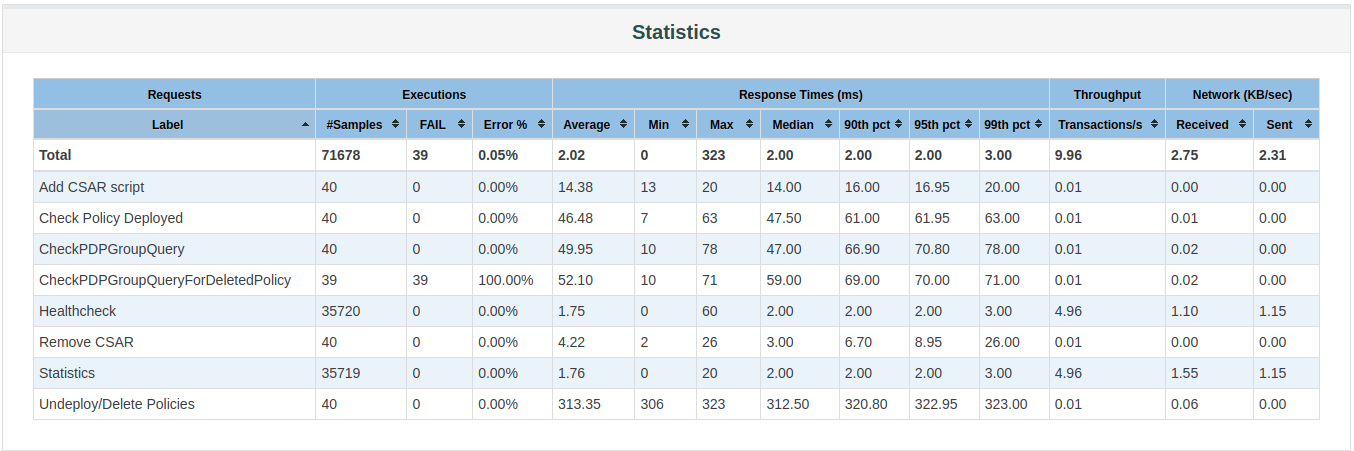
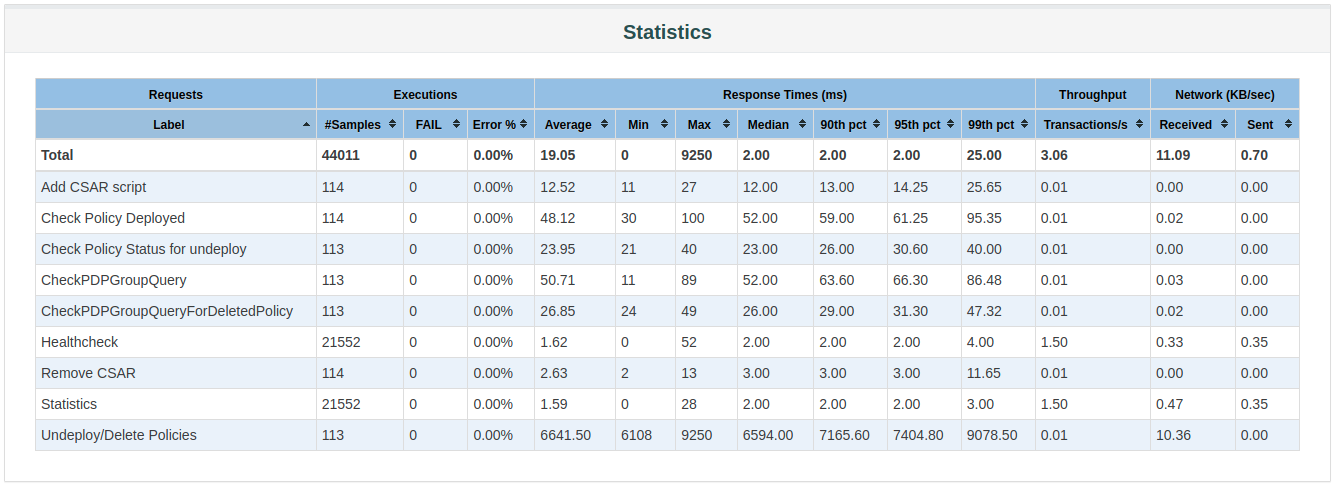
Distribution S3P testing results for Istanbul.
Issue-ID: POLICY-3654

Changed region(s): [[0.0, 0.1552, 0.9828, 0.9313], [0.0, 0.9933, 1.0, 1.0], [0.4607, 0.031, 0.5528, 0.0931]]

diff --git a/docs/development/devtools/distribution-s3p.rst b/docs/development/devtools/distribution-s3p.rst
@@ -14,22 +14,16 @@ VM Details
 ----------
 
 The stability and performance tests are performed on VM's running in the OpenStack cloud
-environment in the ONAP integration lab. There are two separate VMs, one for running backend policy
-services which policy distribution needs, and the other for the policy distribution service itself
-and Jmeter.
+environment in the ONAP integration lab.
 
-**OpenStack environment details**
+**Policy VM details**
 
-- Version: Windriver Titanium
-
-**Policy Backend VM details (VM1)**
-
-- OS: Ubuntu 18.04.5 LTS
-- CPU: 8 core, Intel Xeon E3-12xx v2 (Ivy Bridge), 2693.668 MHz, 16384 kB cache
-- RAM: 32 GB
-- HardDisk: 200 GB
-- Docker version 19.03.8, build afacb8b7f0
-- Java: openjdk 11.0.8 2020-07-14
+- OS: Ubuntu 18.04 LTS (GNU/Linux 4.15.0-151-generic x86_64)
+- CPU: 4 core
+- RAM: 15 GB
+- HardDisk: 39 GB
+- Docker version 20.10.7, build 20.10.7-0ubuntu1~18.04.2
+- Java: openjdk 11.0.11 2021-04-20
 
 
 Common Setup
@@ -52,9 +46,9 @@ Ensure that the Java version that is executing is OpenJDK version 11
 .. code-block:: bash
 
     $ java --version
-    openjdk 11.0.8 2020-07-14
-    OpenJDK Runtime Environment (build 11.0.8+10-post-Ubuntu-0ubuntu118.04.1)
-    OpenJDK 64-Bit Server VM (build 11.0.8+10-post-Ubuntu-0ubuntu118.04.1, mixed mode, sharing)
+    openjdk 11.0.11 2021-04-20
+    OpenJDK Runtime Environment (build 11.0.11+9-Ubuntu-0ubuntu2.18.04)
+    OpenJDK 64-Bit Server VM (build 11.0.11+9-Ubuntu-0ubuntu2.18.04, mixed mode)
 
 Install Docker and Docker Compose
 
@@ -223,14 +217,14 @@ This will load up the visualVM GUI
 
 Connect to Distribution JMX Port.
 
-    1. Right click on "Local" in the left panel of the screen and select "Add JMX Connection"
+    1. On the visualvm toolbar, click on "Add JMX Connection"
     2. Enter the Distribution container IP and Port 9090. This is the JMX port exposed by the
        distribution container
-    3. Double click on the newly added nodes under "Local" to start monitoring CPU, Memory & GC.
+    3. Double click on the newly added nodes under "Remotes" to start monitoring CPU, Memory & GC.
 
 Example Screenshot of visualVM
 
-.. image:: distribution-s3p-results/distribution-s3p-vvm-sample.png
+.. image:: distribution-s3p-results/distribution-visualvm-snapshot.png
 
 
 Stability Test of Policy Distribution
@@ -261,11 +255,10 @@ The 72h stability test will run the following steps sequentially in a single thr
 - **Add CSAR** - Adds CSAR to the directory that distribution is watching
 - **Get Healthcheck** - Ensures Healthcheck is returning 200 OK
 - **Get Statistics** - Ensures Statistics is returning 200 OK
-- **CheckPDPGroupQuery** - Checks that PDPGroupQuery contains the deployed policy
-- **CheckPolicyDeployed** - Checks that the policy is deployed
-- **Undeploy Policy** - Undeploys the policy
-- **Delete Policy** - Deletes the Policy for the next loop
-- **Check PDP Group for Deletion** - Ensures the policy has been removed and does not exist
+- **Assert PDP Group Query** - Checks that PDPGroupQuery contains the deployed policy
+- **Assert PoliciesDeployed** - Checks that the policy is deployed
+- **Undeploy/Delete Policy** - Undeploys and deletes the Policy for the next loop
+- **Assert PDP Group Query for Deleted Policy** - Ensures the policy has been removed and does not exist
 
 The following steps can be used to configure the parameters of the test plan.
 
@@ -285,7 +278,7 @@ The following steps can be used to configure the parameters of the test plan.
 
 Screenshot of Distribution stability test plan
 
-.. image:: distribution-s3p-results/distribution-s3p-testplan.png
+.. image:: distribution-s3p-results/distribution-jmeter-testcases.png
 
 
 Running the Test Plan
@@ -294,6 +287,11 @@ Running the Test Plan
 Check if the /tmp/policydistribution/distributionmount exists as it was created during the start.sh
 script execution. If not, run the following commands to create folder and change folder permissions
 to allow the testplan to insert the CSAR into the /tmp/policydistribution/distributionmount folder.
+
+.. note::
+    Make sure that only csar file is being loaded in the watched folder and log generation is in a
+    logs folder, as any sort of zip file can be understood by distribution as a policy file. A
+    logback.xml configuration file is available under setup/distribution folder.
 
 .. code-block:: bash
 
@@ -324,13 +322,13 @@ Test Results
 
 **Test Statistics**
 
-.. image:: distribution-s3p-results/dist_stability_statistics.PNG
-.. image:: distribution-s3p-results/dist_stability_threshold.PNG
+.. image:: distribution-s3p-results/stability-statistics.png
+.. image:: distribution-s3p-results/stability-threshold.png
 
 **VisualVM Screenshots**
 
-.. image:: distribution-s3p-results/dist_stability_monitor.PNG
-.. image:: distribution-s3p-results/dist_stability_threads.PNG
+.. image:: distribution-s3p-results/stability-monitor.png
+.. image:: distribution-s3p-results/stability-threads.png
 
 
 Performance Test of Policy Distribution
